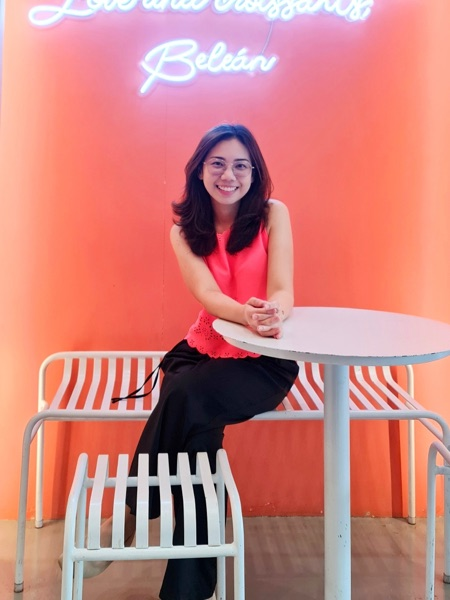
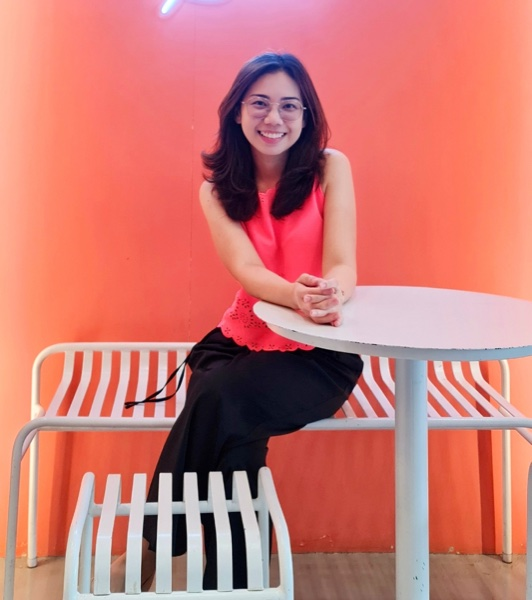
chore: replace Bry Medel's founder portrait photo

diff --git a/about.html b/about.html
@@ -20,7 +20,7 @@
   <link href="https://fonts.googleapis.com/css2?family=Plus+Jakarta+Sans:wght@300;400;600;700;800&display=swap" rel="stylesheet">
 
   <!-- Design System Stylesheet -->
-  <link rel="stylesheet" href="style.css?v=20261126">
+  <link rel="stylesheet" href="style.css?v=20261127">
 </head>
 <body>
 
@@ -236,10 +236,10 @@
             <div class="team-member-top founder-hero-row">
               <div class="team-portrait-card founder-portrait-frame" data-parallax-speed="-0.015">
                 <img
-                  src="assets/founders/bry.jpg"
+                  src="assets/founders/bry.jpg?v=20261127"
                   alt="Blaine Ivory M. Medel (Bry), Operations Officer, UX/UI Design, QA and Documentation Lead, HR at Harmony IT Consultancy"
                   class="founder-portrait-img founder-img-bry"
-                  width="450"
+                  width="532"
                   height="600"
                   loading="lazy"
                 >

diff --git a/style.css b/style.css
@@ -1217,9 +1217,9 @@ button {
 }
 
 .founder-img-bry {
-  object-position: 50% 24%;
-  --portrait-scale: 1.65;
-  --portrait-origin: 50% 24%;
+  object-position: 60% 12%;
+  --portrait-scale: 1.55;
+  --portrait-origin: 50% 12%;
 }
 
 .founders-showcase .founder-identity {
